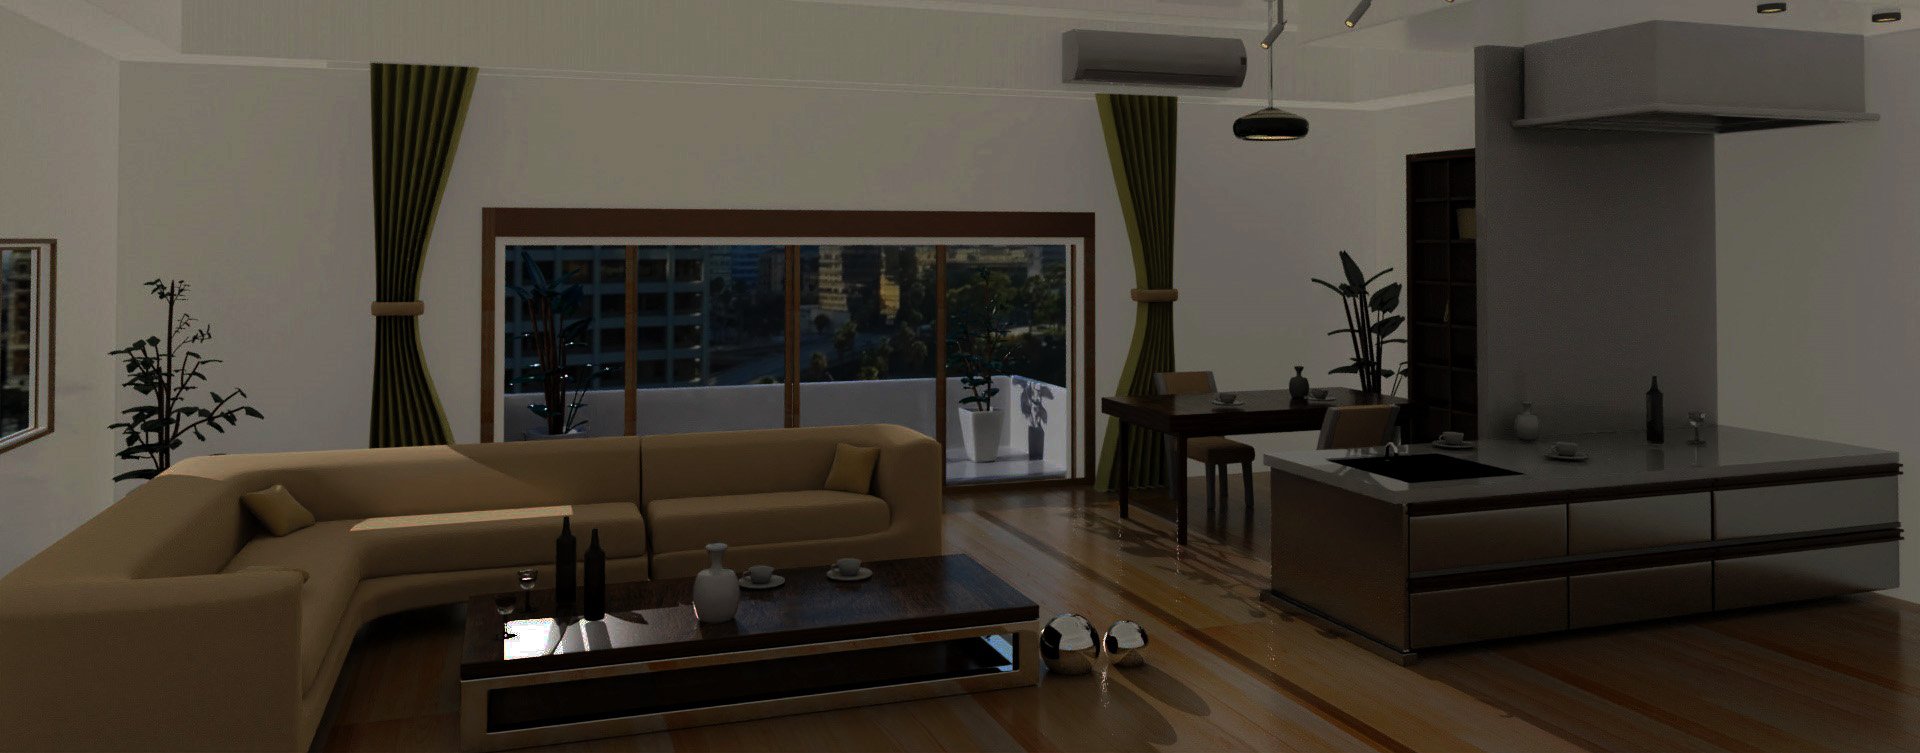
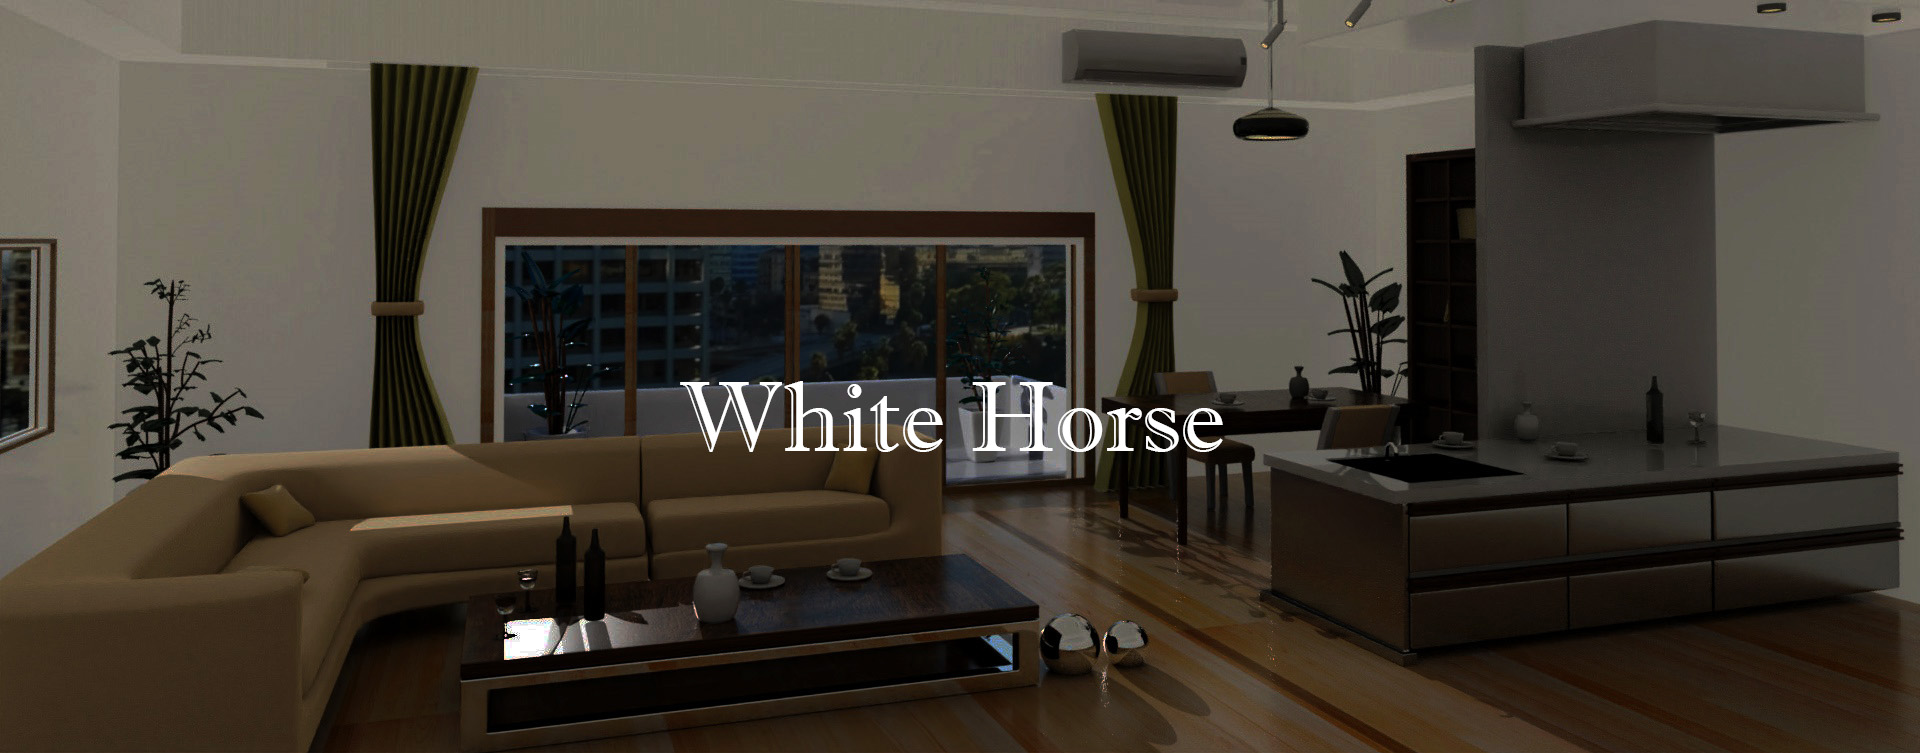
0828

Changed region(s): [[0.3438, 0.4887, 0.6562, 0.6109]]

diff --git a/style.css b/style.css
@@ -7,28 +7,6 @@ body{
     margin:0px;
 }
 
-
-.header_layout1{
-    position:relative;
-}
-
-h1{
-    text-align:center;
-    color:rgb(255, 255, 255);
-    font-size: 70px;
-    font-family: 'Lora', serif;
-    line-height:2px;
-    position:absolute;
-    top:60%;
-    left:50%;
-    -ms-transform: translate(-50%,-50%);
-    -webkit-transform: translate(-50%,-50%);
-    transform: translate(-50%,-50%);
-    margin:0;
-    padding:0;
-}
-
-
 .header_layout1 img{
     width: 100%;
     height: 100%;
@@ -40,7 +18,6 @@ h1{
     flex-direction: row;
     justify-content:center;
     width:100%;
-    overflow:hidden;
 }
 
 .item{
@@ -71,12 +48,16 @@ h1{
     transform: scale(1, 1);
 }
 
+
+
 .header_layout2 .header_layout1{
     position: absolute;
     top:50%;
     left:50%;
     transform:translate(-50%,-50%);
 }
+
+
 
 h2{
     text-align:center;
@@ -152,4 +133,9 @@ h2{
 }
 .my-skyblue{
     color:rgb(14, 143, 248);
+}
+
+.header_layout2{
+    position:fixed;
+    background-color: rgb(7, 7, 7);
 }

diff --git a/index.html b/index.html
@@ -7,16 +7,12 @@
     </head>
     <body>
         <header>
-            <div class="header_layout1">
-                <h1>WhiteHorse</h1>
-                <img src="picture/picture2.jpg">
-            </div>
             <div class="header_layout2">
                 <a href="#link1">
                     <div class="item">Recent Works</div>
                 </a>
                 <a href="#link2">
-                    <div class="item">past works</div>
+                    <div class="item">Past Works</div>
                 </a>
                 <a href="#link3">
                     <div class="item">Others</div>
@@ -28,6 +24,11 @@
                     <div class="item">Contact</div>
                 </a>
             </div>
+
+            <div class="header_layout1">
+                <img src="picture/picture2.jpg">
+            </div>
+
         </header>
         <br>
         <br>
